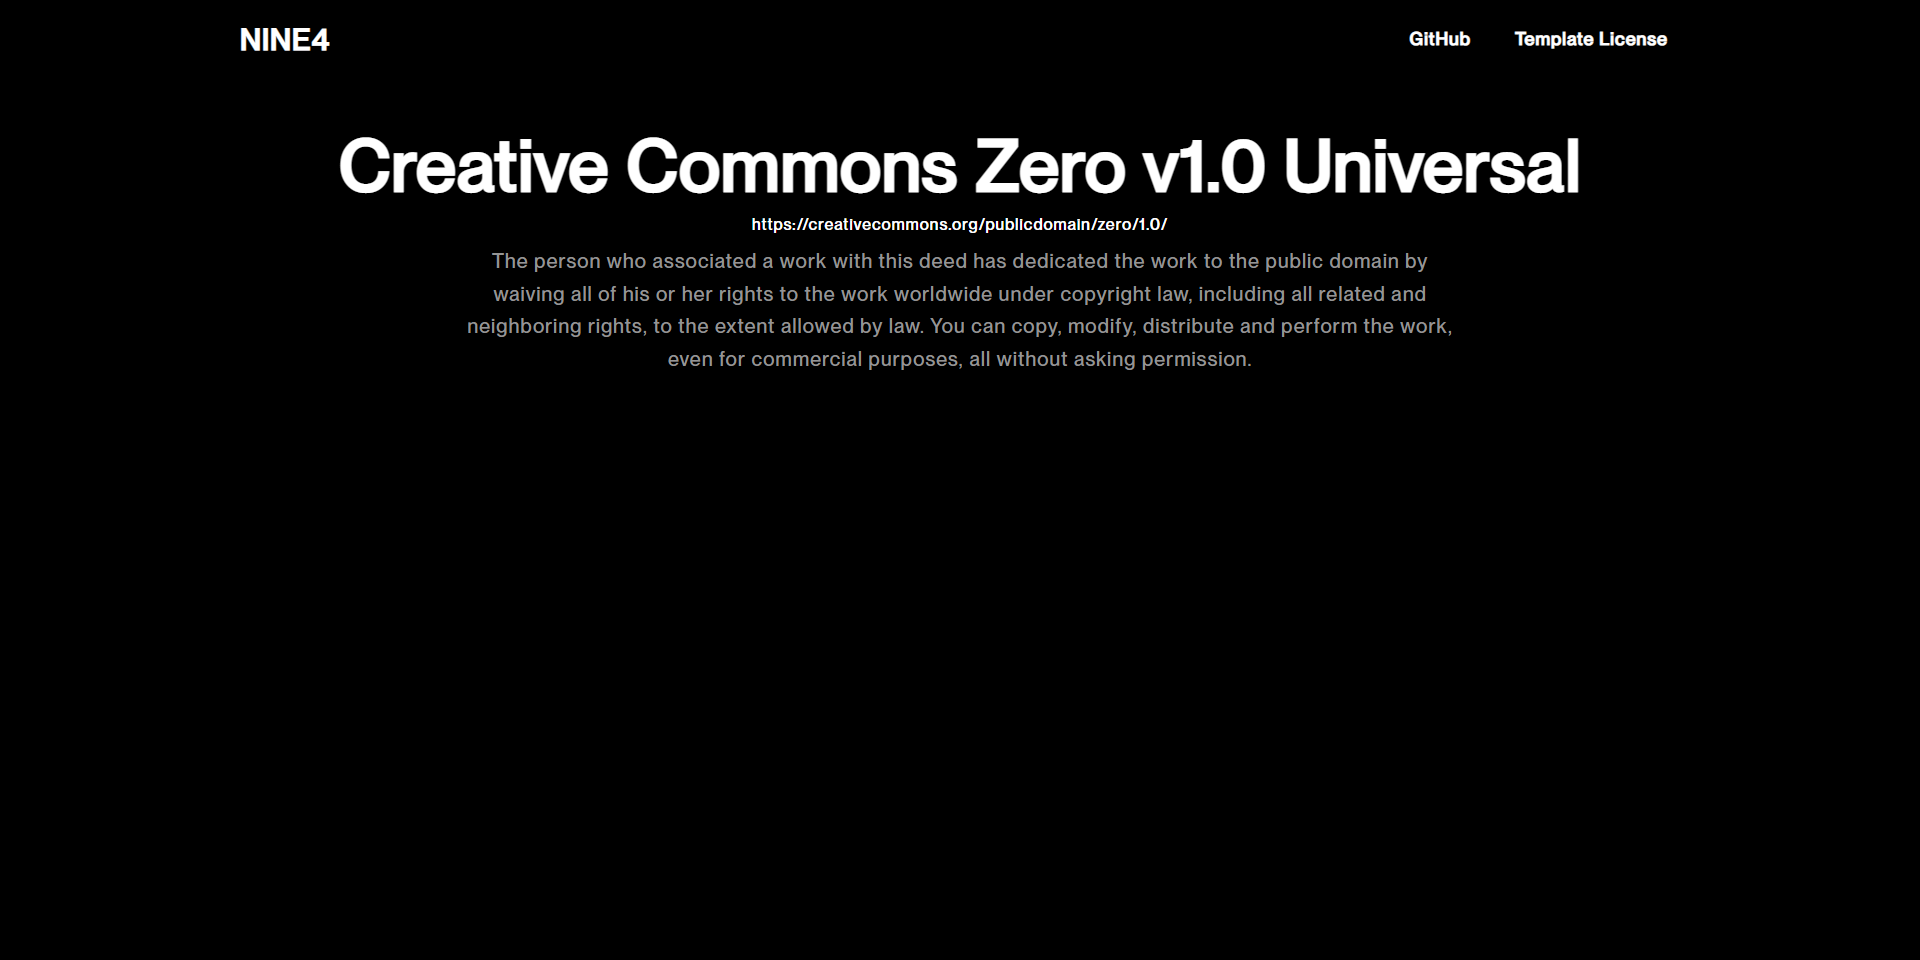
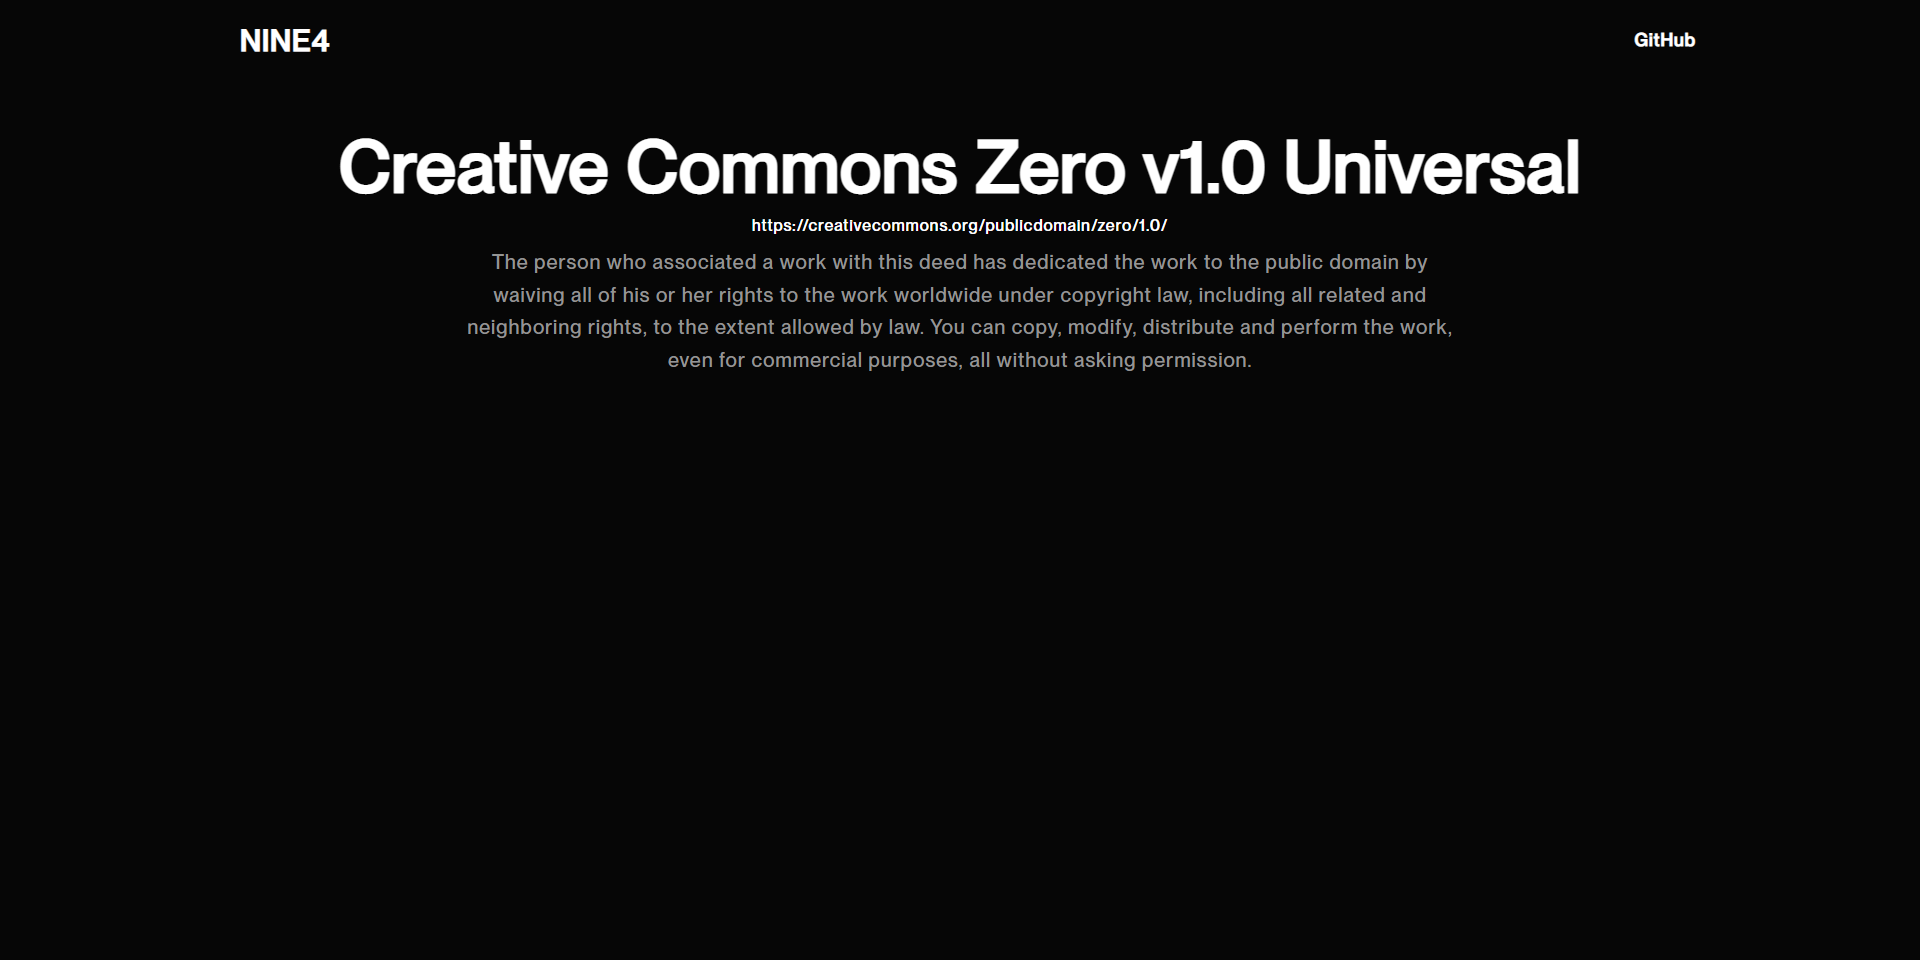
done(landing page): changed design

diff --git a/components/Main.js b/components/Main.js
@@ -10,8 +10,10 @@ export default function Main() {
           </h1>
           <br></br>
           <p className="mx-auto text-xl font-normal leading-relaxed fs521 lg:w-2/3">
-            Free Tailwind CSS Templates for you to use and modify freely with no
-            restrictive license.
+            Free Tailwind CSS Templates for you to use and modify freely with{" "}
+            <a href="/license" className="underline underline-offset-1">
+              no restrictive license.
+            </a>
           </p>
         </div>
         <div className="container my-12 mx-auto px-4 md:px-12">
@@ -72,7 +74,7 @@ export default function Main() {
                         Source Code
                       </a>
                     </div>
-                    <div className="inline-flex px-5 py-1 mt-3 font-semibold text-white bg-gray-800 rounded-full toracking-wide">
+                    <div className="inline-flex px-5 py-1 mt-3 font-medium text-white bg-gray-800 rounded-full toracking-wide">
                       Free
                     </div>
                   </div>
@@ -135,7 +137,7 @@ export default function Main() {
                         Source Code
                       </a>
                     </div>
-                    <div className="inline-flex px-5 py-1 mt-3 font-semibold text-white bg-gray-800 rounded-full toracking-wide">
+                    <div className="inline-flex px-5 py-1 mt-3 font-medium text-white bg-gray-800 rounded-full toracking-wide">
                       Free
                     </div>
                   </div>
@@ -198,7 +200,7 @@ export default function Main() {
                         Source Code
                       </a>
                     </div>
-                    <div className="inline-flex px-5 py-1 mt-3 font-semibold text-white bg-gray-800 rounded-full toracking-wide">
+                    <div className="inline-flex px-5 py-1 mt-3 font-medium text-white bg-gray-800 rounded-full toracking-wide">
                       Free
                     </div>
                   </div>
@@ -261,7 +263,7 @@ export default function Main() {
                         Source Code
                       </a>
                     </div>
-                    <div className="inline-flex px-5 py-1 mt-3 font-semibold text-white bg-gray-800 rounded-full toracking-wide">
+                    <div className="inline-flex px-5 py-1 mt-3 font-medium text-white bg-gray-800 rounded-full toracking-wide">
                       Free
                     </div>
                   </div>

diff --git a/components/Header.js b/components/Header.js
@@ -55,12 +55,6 @@ export default function Container() {
             >
               GitHub
             </a>
-            <a
-              className="py-2 mt-2 text-lg font-semibold text-white transition duration-500 ease-in-out transform bg-transparent rounded-lg px-7 md:mt-0 md:ml-4"
-              href="/license"
-            >
-              Template License
-            </a>
           </nav>
         </div>
       </div>

diff --git a/styles/globals.css b/styles/globals.css
@@ -83,6 +83,10 @@ a {
   white-space: pre-wrap;
 }
 
+.underline-offset-1 {
+  text-underline-offset: 1px;
+}
+
 *::-webkit-scrollbar {
   width: 8px;
 }
